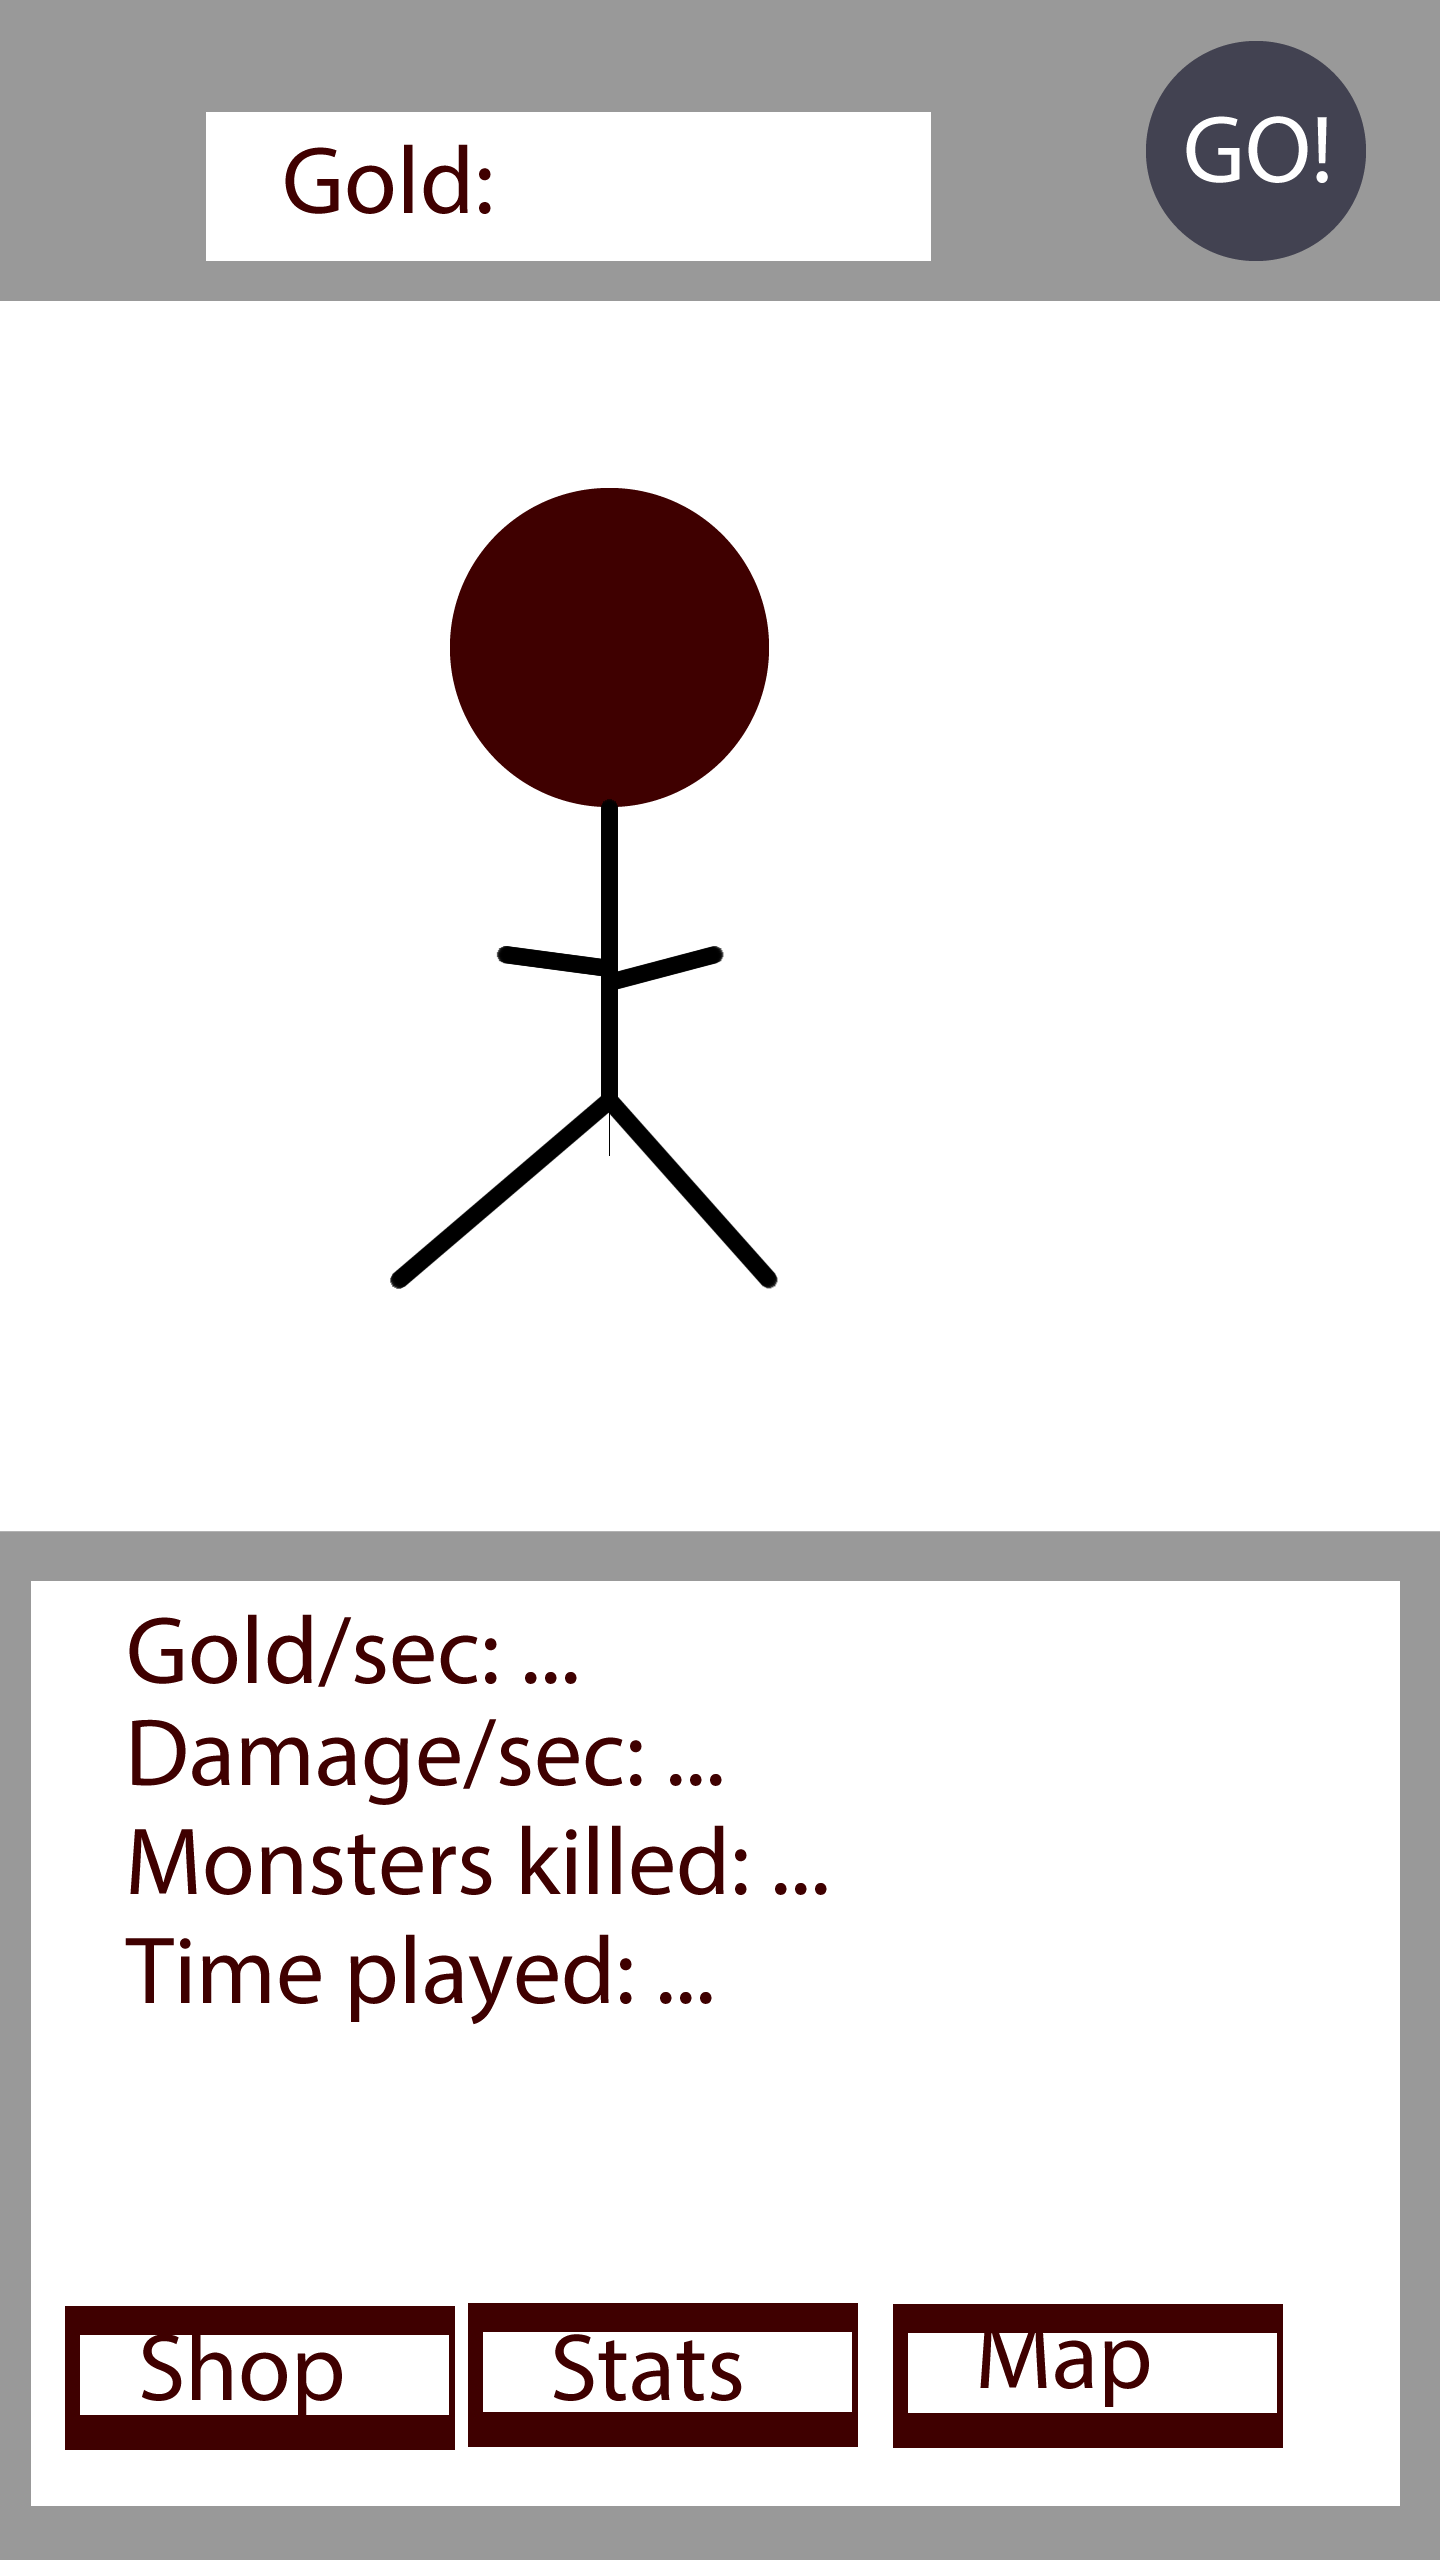
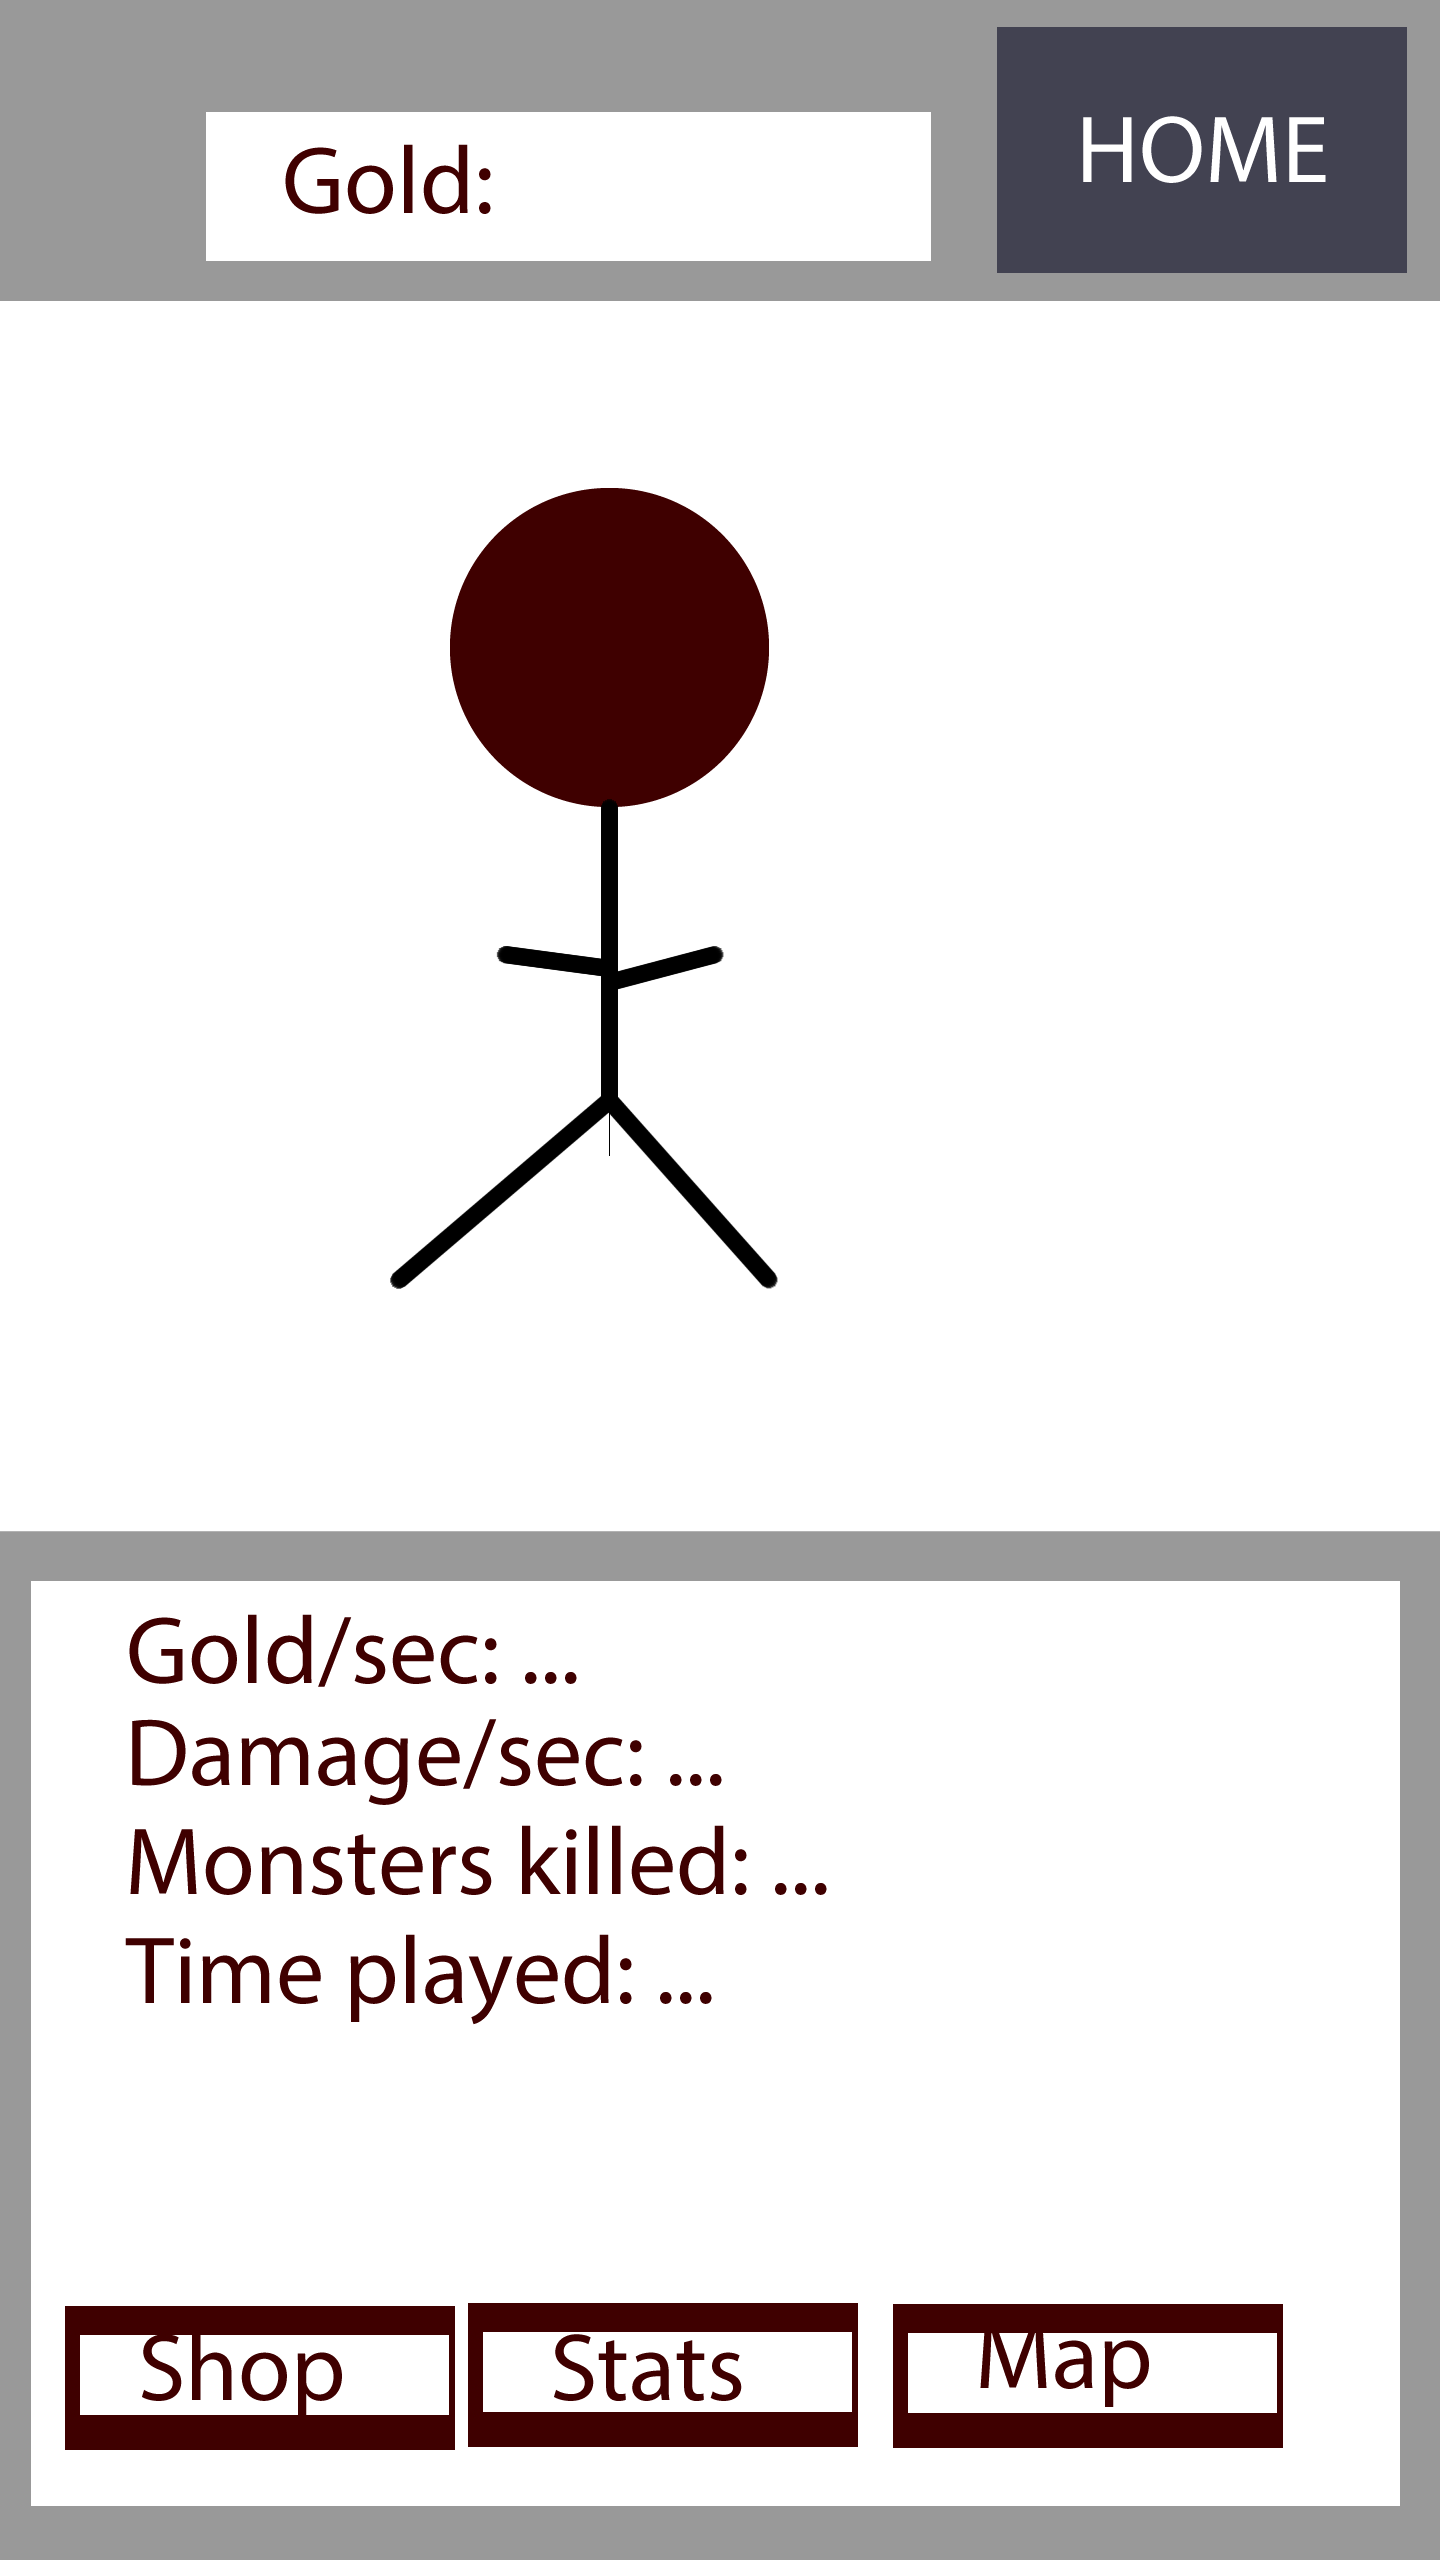
Added a HOME page to GUI preview.

Changed region(s): [[0.6875, 0.0, 1.0, 0.125]]

diff --git a/GUIpreview/master.htm b/GUIpreview/master.htm
@@ -5,14 +5,14 @@
 <head>
 <title>master</title>
 <meta http-equiv="Content-Type" content="text/html; charset=utf-8" />
-<!--Fireworks CS6 Dreamweaver CS6 target.  Created Thu Mar 23 11:17:49 GMT+0100 2017-->
+<!--Fireworks CS6 Dreamweaver CS6 target.  Created Thu Mar 23 12:20:03 GMT+0100 2017-->
 </head>
 <body bgcolor="#ffffff">
 <img name="master" src="master.png" width="1440" height="2560" id="master" usemap="#m_master" alt="" /><map name="m_master" id="m_master">
-<area shape="rect" coords="65,2317,449,2447" href="master.htm" alt="" />
-<area shape="rect" coords="893,2306,1283,2450" href="Map.htm" alt="" />
-<area shape="rect" coords="468,2317,858,2447" href="Stats.htm" alt="" />
-<area shape="circle" coords="1256,151, 110" href="clickedGo.htm" alt="" />
+<area shape="rect" coords="74,2318,458,2448" href="master.htm" alt="" />
+<area shape="rect" coords="902,2307,1292,2451" href="Map.htm" alt="" />
+<area shape="rect" coords="477,2318,867,2448" href="Stats.htm" alt="" />
+<area shape="rect" coords="997,27,1407,273" href="Home.htm" alt="" />
 </map>
 </body>
 </html>

diff --git a/GUIpreview/Stats.htm b/GUIpreview/Stats.htm
@@ -5,14 +5,14 @@
 <head>
 <title>Stats</title>
 <meta http-equiv="Content-Type" content="text/html; charset=utf-8" />
-<!--Fireworks CS6 Dreamweaver CS6 target.  Created Thu Mar 23 11:17:50 GMT+0100 2017-->
+<!--Fireworks CS6 Dreamweaver CS6 target.  Created Thu Mar 23 12:20:05 GMT+0100 2017-->
 </head>
 <body bgcolor="#ffffff">
 <img name="Stats" src="Stats.png" width="1440" height="2560" id="Stats" usemap="#m_Stats" alt="" /><map name="m_Stats" id="m_Stats">
-<area shape="rect" coords="65,2317,449,2447" href="master.htm" alt="" />
-<area shape="rect" coords="893,2306,1283,2450" href="Map.htm" alt="" />
-<area shape="rect" coords="468,2317,858,2447" href="Stats.htm" alt="" />
-<area shape="circle" coords="1256,151, 110" href="clickedGo.htm" alt="" />
+<area shape="rect" coords="74,2318,458,2448" href="master.htm" alt="" />
+<area shape="rect" coords="902,2307,1292,2451" href="Map.htm" alt="" />
+<area shape="rect" coords="477,2318,867,2448" href="Stats.htm" alt="" />
+<area shape="rect" coords="997,27,1407,273" href="Home.htm" alt="" />
 </map>
 </body>
 </html>

diff --git a/GUIpreview/Map.htm b/GUIpreview/Map.htm
@@ -5,14 +5,14 @@
 <head>
 <title>Map</title>
 <meta http-equiv="Content-Type" content="text/html; charset=utf-8" />
-<!--Fireworks CS6 Dreamweaver CS6 target.  Created Thu Mar 23 11:17:53 GMT+0100 2017-->
+<!--Fireworks CS6 Dreamweaver CS6 target.  Created Thu Mar 23 12:20:08 GMT+0100 2017-->
 </head>
 <body bgcolor="#ffffff">
 <img name="Map" src="Map.gif" width="1440" height="2560" id="Map" usemap="#m_Map" alt="" /><map name="m_Map" id="m_Map">
-<area shape="rect" coords="65,2317,449,2447" href="master.htm" alt="" />
-<area shape="rect" coords="893,2306,1283,2450" href="Map.htm" alt="" />
-<area shape="rect" coords="468,2317,858,2447" href="Stats.htm" alt="" />
-<area shape="circle" coords="1256,151, 110" href="clickedGo.htm" alt="" />
+<area shape="rect" coords="74,2318,458,2448" href="master.htm" alt="" />
+<area shape="rect" coords="902,2307,1292,2451" href="Map.htm" alt="" />
+<area shape="rect" coords="477,2318,867,2448" href="Stats.htm" alt="" />
+<area shape="rect" coords="997,27,1407,273" href="Home.htm" alt="" />
 </map>
 </body>
 </html>

diff --git a/GUIpreview/Home.htm b/GUIpreview/Home.htm
@@ -1,0 +1,18 @@
+<!DOCTYPE html PUBLIC "-//W3C//DTD XHTML 1.0 Transitional//EN"
+"http://www.w3.org/TR/xhtml1/DTD/xhtml1-transitional.dtd">
+<!-- saved from url=(0014)about:internet -->
+<html xmlns="http://www.w3.org/1999/xhtml">
+<head>
+<title>Home</title>
+<meta http-equiv="Content-Type" content="text/html; charset=utf-8" />
+<!--Fireworks CS6 Dreamweaver CS6 target.  Created Thu Mar 23 12:20:03 GMT+0100 2017-->
+</head>
+<body bgcolor="#ffffff">
+<img name="Home" src="Home.png" width="1440" height="2560" id="Home" usemap="#m_Home" alt="" /><map name="m_Home" id="m_Home">
+<area shape="rect" coords="74,2318,458,2448" href="master.htm" alt="" />
+<area shape="rect" coords="902,2307,1292,2451" href="Map.htm" alt="" />
+<area shape="rect" coords="477,2318,867,2448" href="Stats.htm" alt="" />
+<area shape="rect" coords="997,27,1407,273" href="Home.htm" alt="" />
+</map>
+</body>
+</html>
